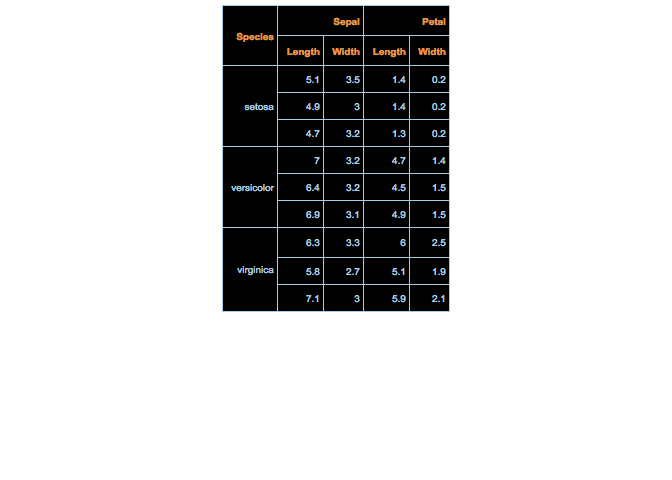
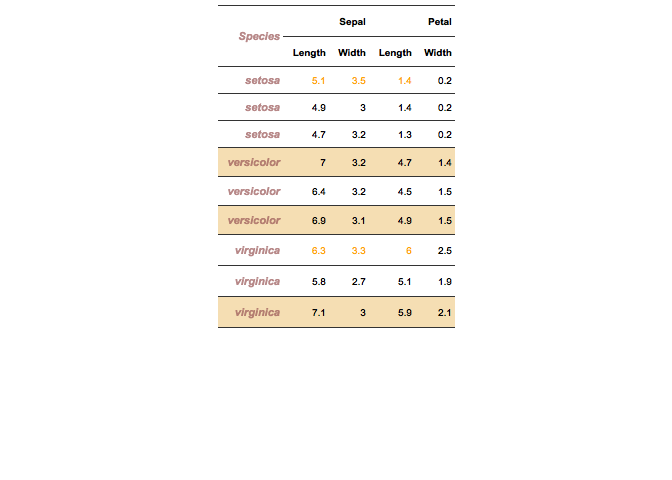
html rotation

Changed region(s): [[0.3125, 0.0, 0.6875, 0.6875]]

diff --git a/inst/htmlwidgets/customcss/tabwid.css b/inst/htmlwidgets/customcss/tabwid.css
@@ -1,7 +1,6 @@
 .tabwid table{
   border-collapse:collapse;
   line-height:1;
-  margin: 0;
   margin-left:auto;
   margin-right:auto;
 }
@@ -15,3 +14,10 @@
 .tabwid thead {
     background-color: transparent;
 }
+.tabwid table tr {
+background-color: transparent;
+}
+.tabwid table tr:nth-child(2n) {
+background-color: transparent;
+}
+

diff --git a/README.md b/README.md
@@ -3,7 +3,7 @@ flextable R package
 
 -   [API](#api)
 -   [Installation](#installation)
--   [Quick demo](#quick-demo)
+-   [Example](#example)
 
 <!-- README.md is generated from README.Rmd. Please edit that file -->
 [![Build Status](https://travis-ci.org/davidgohel/flextable.svg?branch=master)](https://travis-ci.org/davidgohel/flextable) [![Coverage Status](https://img.shields.io/codecov/c/github/davidgohel/flextable/master.svg)](https://codecov.io/github/davidgohel/flextable?branch=master) [![CRAN version](http://www.r-pkg.org/badges/version/flextable)](https://cran.r-project.org/package=flextable) ![](http://cranlogs.r-pkg.org/badges/grand-total/flextable) [![Project Status: WIP - Initial development is in progress, but there has not yet been a stable, usable release suitable for the public.](http://www.repostatus.org/badges/latest/wip.svg)](http://www.repostatus.org/#wip)
@@ -11,12 +11,13 @@ flextable R package
 API
 ---
 
-A tabular reporting tool that let R users create tables for reporting and control their formatting properties and their layout.
+An API is available to let R users create tables for reporting and control their formatting properties and their layout. A `flextable` object is a data.frame representation, it can be manipulated with functions that give control over:
 
--   Manage headers
--   Format text, paragraphs, cells and border of any element
--   Separate data from displayed values
--   Outut availables are Microsoft Word, PowerPoint and HTML (as an `htmlwidgets` object).
+-   headers managment
+-   text, paragraphs, cells and border formatting of any element
+-   displayed values
+
+`flextable` objects can be rendered in Microsoft Word, PowerPoint and HTML documents.
 
 Installation
 ------------
@@ -24,25 +25,23 @@ Installation
 You can get the development version from GitHub:
 
 ``` r
-devtools::install_github("davidgohel/oxbase")
 devtools::install_github("davidgohel/flextable")
 ```
 
-Quick demo
-----------
+Example
+-------
 
 `flextable` is designed for use with the `%>%` pipe operator. You can make this `%>%` operator available in your R workspace by loading package [`magrittr`](https://cran.r-project.org/package=magrittr).
 
 ``` r
 library("magrittr")
 library("flextable")
-library("oxbase")
-library("dplyr")
 ```
 
-The following dataset will be used as input paramter of `flextable` call:
+The following dataset will be used as input paramter of `flextable` call.
 
 ``` r
+library("dplyr")
 mydata <- iris %>% 
   group_by(Species) %>% 
   do( head(., n = 3) )
@@ -63,15 +62,15 @@ mydata
 #> 9          7.1         3.0          5.9         2.1  virginica
 ```
 
-The following styles are to be used later.
+The following *styles* objects are to be used later, they will used to change formatting properties of the `flextable` object.
 
 ``` r
 def_txt <- fp_text(font.size = 9, font.family = "Arial", color = "gray40")
-def_head <- update(def_txt, font.size = 11, color = "gray20")
+def_spe <- update(def_txt, font.size = 11, color = "#995555B3", bold = TRUE, italic = TRUE)
 def_cell <- fp_cell( border = fp_border(color = "gray") )
 ```
 
-First, define the flextable.
+First step is to create a flextable. Dataset `mydata` is used as input table.
 
 ``` r
 ft <- flextable(mydata, col_keys = c("Species", 
@@ -79,40 +78,41 @@ ft <- flextable(mydata, col_keys = c("Species",
     "Petal.Width") )
 ```
 
-Add titles to header part.
+Then, functions `set_header_labels` and `add_header` will replace default table column names and add a new row.
 
 ``` r
 ft <- flextable(mydata, col_keys = c("Species", 
     "Sepal.Length", "Sepal.Width", "Petal.Length", 
     "Petal.Width") ) %>%
-  set_header_labels(Sepal.Length = "Length", 
-             Sepal.Width = "Width",
-             Petal.Length = "Length",
-             Petal.Width = "Width", 
+  set_header_labels(Sepal.Length = "Length", Sepal.Width = "Width",
+             Petal.Length = "Length",Petal.Width = "Width", 
              Species = "Species" ) %>%
-  add_header(Sepal.Length = "Sepal", 
-             Sepal.Width = "Sepal",
-             Petal.Length = "Petal",
-             Petal.Width = "Petal", 
+  add_header(Sepal.Length = "Sepal", Sepal.Width = "Sepal",
+             Petal.Length = "Petal", Petal.Width = "Petal", 
              Species = "Species") 
 ```
 
-Merge some cells.
+Cells can be merged when consecutive cells have identical values, `merge_h` and `merge_v` will merge horizontally and vertically cells. Argument `part` specify the part of the flextable (header or body or all) where the function should be applied. Here we will only merge identical cells in the header part of the table.
 
 ``` r
 ft <- ft %>% 
   merge_h(part = "header") %>% 
-  merge_v(part = "header") %>% 
-  merge_v(j = "Species" ) 
+  merge_v(part = "header")
 ```
 
 Then apply some formatting properties :
 
 ``` r
-ft %>% 
-  theme_tron() %>% 
-  autofit() %>% 
-  tabwid()
+ft <- ft %>% theme_vanilla() %>% 
+  style(j = ~ Species, part = "all", pr_t = def_spe ) %>% 
+  bg(i = ~ Sepal.Length > 6.8, bg = "wheat") %>% 
+  color(i = ~ Sepal.Width > 3.25, j = 2:4, color = "orange" )
+```
+
+The flextable is displayed as an `htmlwidget` when calling function `tabwid`.
+
+``` r
+ft %>% autofit() %>% tabwid()
 ```
 
 ![](README_files/figure-markdown_github/tabwid_example-1.png)
